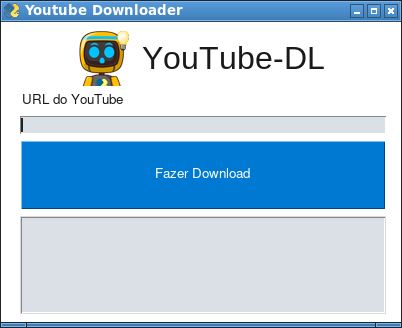
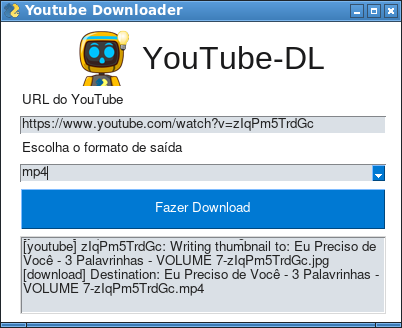
Adicionado opcao de escolher formato do download

Changed region(s): [[0.0299, 0.6098, 0.9851, 0.9146], [0.0299, 0.4268, 0.9552, 0.5793], [0.0299, 0.3354, 0.7761, 0.3963]]

diff --git a/app.py b/app.py
@@ -2,65 +2,87 @@ from __future__ import unicode_literals
 import PySimpleGUI as sg
 import sys, youtube_dl, subprocess
 
-#         __   __         _____      _          
-#         \ \ / /__  _   |_   _|   _| |__   ___ 
+#         __   __         _____      _
+#         \ \ / /__  _   |_   _|   _| |__   ___
 #          \ V / _ \| | | || || | | | '_ \ / _ \
 #           | | (_) | |_| || || |_| | |_) |  __/
 #           |_|\___/ \__,_||_| \__,_|_.__/ \___|
-#                                               
-#          ____                      _                 _           
-#         |  _ \  _____      ___ __ | | ___   __ _  __| | ___ _ __ 
+#
+#          ____                      _                 _
+#         |  _ \  _____      ___ __ | | ___   __ _  __| | ___ _ __
 #         | | | |/ _ \ \ /\ / / '_ \| |/ _ \ / _` |/ _` |/ _ \ '__|
-#         | |_| | (_) \ V  V /| | | | | (_) | (_| | (_| |  __/ |   
-#         |____/ \___/ \_/\_/ |_| |_|_|\___/ \__,_|\__,_|\___|_|   
-#                                                                  
+#         | |_| | (_) \ V  V /| | | | | (_) | (_| | (_| |  __/ |
+#         |____/ \___/ \_/\_/ |_| |_|_|\___/ \__,_|\__,_|\___|_|
+#
 # Desenvolvido por Elizeu Barbosa Abreu
+
+formatos = ["mp4", "ogg", "m4a", "webm"]
 
 
 def baixar(cmd, timeout=None, window=None):
-    p = subprocess.Popen(cmd, shell=True, stdout=subprocess.PIPE, stderr=subprocess.STDOUT)
-    output = ''
+    p = subprocess.Popen(
+        cmd, shell=True, stdout=subprocess.PIPE, stderr=subprocess.STDOUT
+    )
+    output = ""
     for line in p.stdout:
-        line = line.decode(errors='replace' if (sys.version_info) < (3, 5) else 'backslashreplace').rstrip()
+        line = line.decode(
+            errors="replace" if (sys.version_info) < (3, 5) else "backslashreplace"
+        ).rstrip()
         output += line
         print(line)
-        window.Refresh() if window else None        # yes, a 1-line if, so shoot me
+        window.Refresh() if window else None  # yes, a 1-line if, so shoot me
     retval = p.wait(timeout)
-    return (retval, output) 
-    
-sg.theme('Reddit')     
+    return (retval, output)
+
+
+sg.theme("Reddit")
 
 
 layout = [
-    [sg.Stretch(), sg.Image(sg.EMOJI_BASE64_HAPPY_IDEA),
-     sg.Text('YouTube-DL', font=('Arial', 24)), sg.Stretch()],
-    [sg.Stretch(), sg.Text('URL do YouTube', size=(60,1)), sg.Stretch()],
-    [sg.Stretch(), sg.Input('', key='-url-', size=(60,1)), sg.Stretch()],    
-    [sg.Stretch(), sg.Button('Fazer Download', size=(50,4)), sg.Stretch()],
-    [sg.Stretch(), sg.Output(size=(60, 25)), sg.Stretch()]]
+    [
+        sg.Stretch(),
+        sg.Image(sg.EMOJI_BASE64_HAPPY_IDEA),
+        sg.Text("YouTube-DL", font=("Arial", 24)),
+        sg.Stretch(),
+    ],
+    [sg.Stretch(), sg.Text("URL do YouTube", size=(60, 1)), sg.Stretch()],
+    [sg.Stretch(), sg.Input("", key="-url-", size=(60, 1)), sg.Stretch()],
+    [sg.Stretch(), sg.Text("Escolha o formato de saída", size=(60, 1)), sg.Stretch()],
+    [
+        sg.Stretch(),
+        sg.Combo(formatos, default_value="mp4", size=(60,), key="-formato-"),
+        sg.Stretch(),
+    ],
+    [sg.Stretch(), sg.Button("Fazer Download", size=(50, 2)), sg.Stretch()],
+    [sg.Stretch(), sg.Output(size=(60, 25)), sg.Stretch()],
+]
 
-window = sg.Window('Youtube Downloader', layout=layout, size=(400, 300), resizable=True)
+window = sg.Window("Youtube Downloader", layout=layout, size=(400, 300), resizable=True)
 
-while True:                            
+while True:
     event, values = window.read()
-    if event == sg.WIN_CLOSED or event=="Exit":
+    if event == sg.WIN_CLOSED or event == "Exit":
         break
-    
-    elif event in 'Fazer Download':         
-        sg.popup_timed('Atenção!', 'Preparando para iniciar o Download...')
-        
-        link = values['-url-']
-        pasta = sg.popup_get_folder('Pasta/Dir...')
-        
-        
+
+    elif event in "Fazer Download":
+
+        link = values["-url-"]
+        formato = values["-formato-"]
+        pasta = sg.popup_get_folder("Pasta/Dir...")
+
+        sg.popup_timed(
+            "Atenção!",
+            "Preparando para iniciar o Download... \nFique atento: O YouTube pode bloquear alguns downloads...",
+        )
+
         try:
-            cmd = f'cd {pasta}; youtube-dl -f mp4 --write-thumbnail {link}'            
+            cmd = f"cd {pasta}; youtube-dl -f {formato} --write-thumbnail {link}"
             baixar(cmd)
-            
+
         except Exception as e:
-            sg.popup_error(f'''{e}''')
-        
-        window['-url-'].update('')
-                  
-    
+            sg.popup_error(f"""{e}""")
+
+        window["-url-"].update("")
+
+
 window.close()
